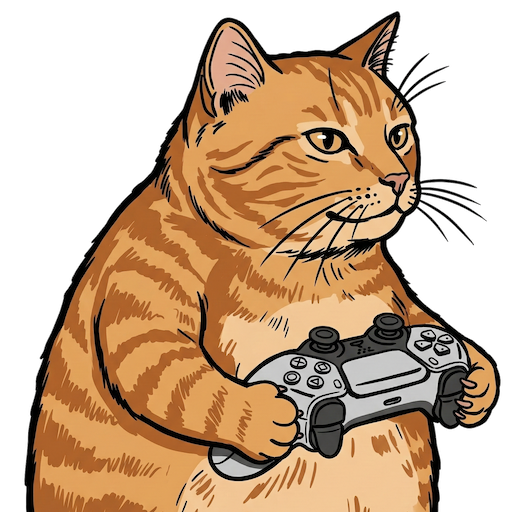
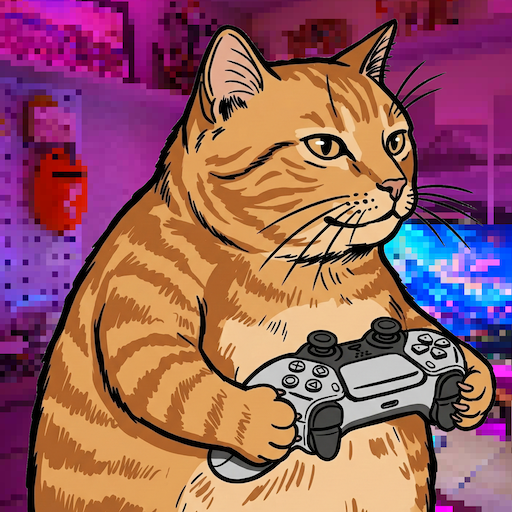
update

diff --git a/README.md b/README.md
@@ -1,0 +1,28 @@
+# 保羅的遊樂場 - Paul's Playbox
+
+遊戲是第九藝術，喜歡遊戲，熱愛遊戲，持續追尋創意。
+
+## 線上體驗
+
+https://easylive1989.github.io/paul-playbox/
+
+## 遊戲列表
+
+| 遊戲 | 技術 |
+|------|------|
+| Flutter Breakout | Flutter |
+| Flutter Tetris | Flutter |
+| Player NS Shaft | Flutter |
+| Ray World Game | Flutter |
+| Water Sort Puzzle | Flutter |
+| Tiny Swords RTS | JavaScript |
+
+## 技術棧
+
+- **Flutter** - 大部分遊戲使用 Flutter 開發，編譯為 Web 版本
+- **JavaScript** - Tiny Swords RTS 使用原生 JS 開發
+- **Tailwind CSS** - Landing page 使用 Tailwind CSS 設計
+
+## 授權
+
+© 2026 Paul Wu. All rights reserved.
